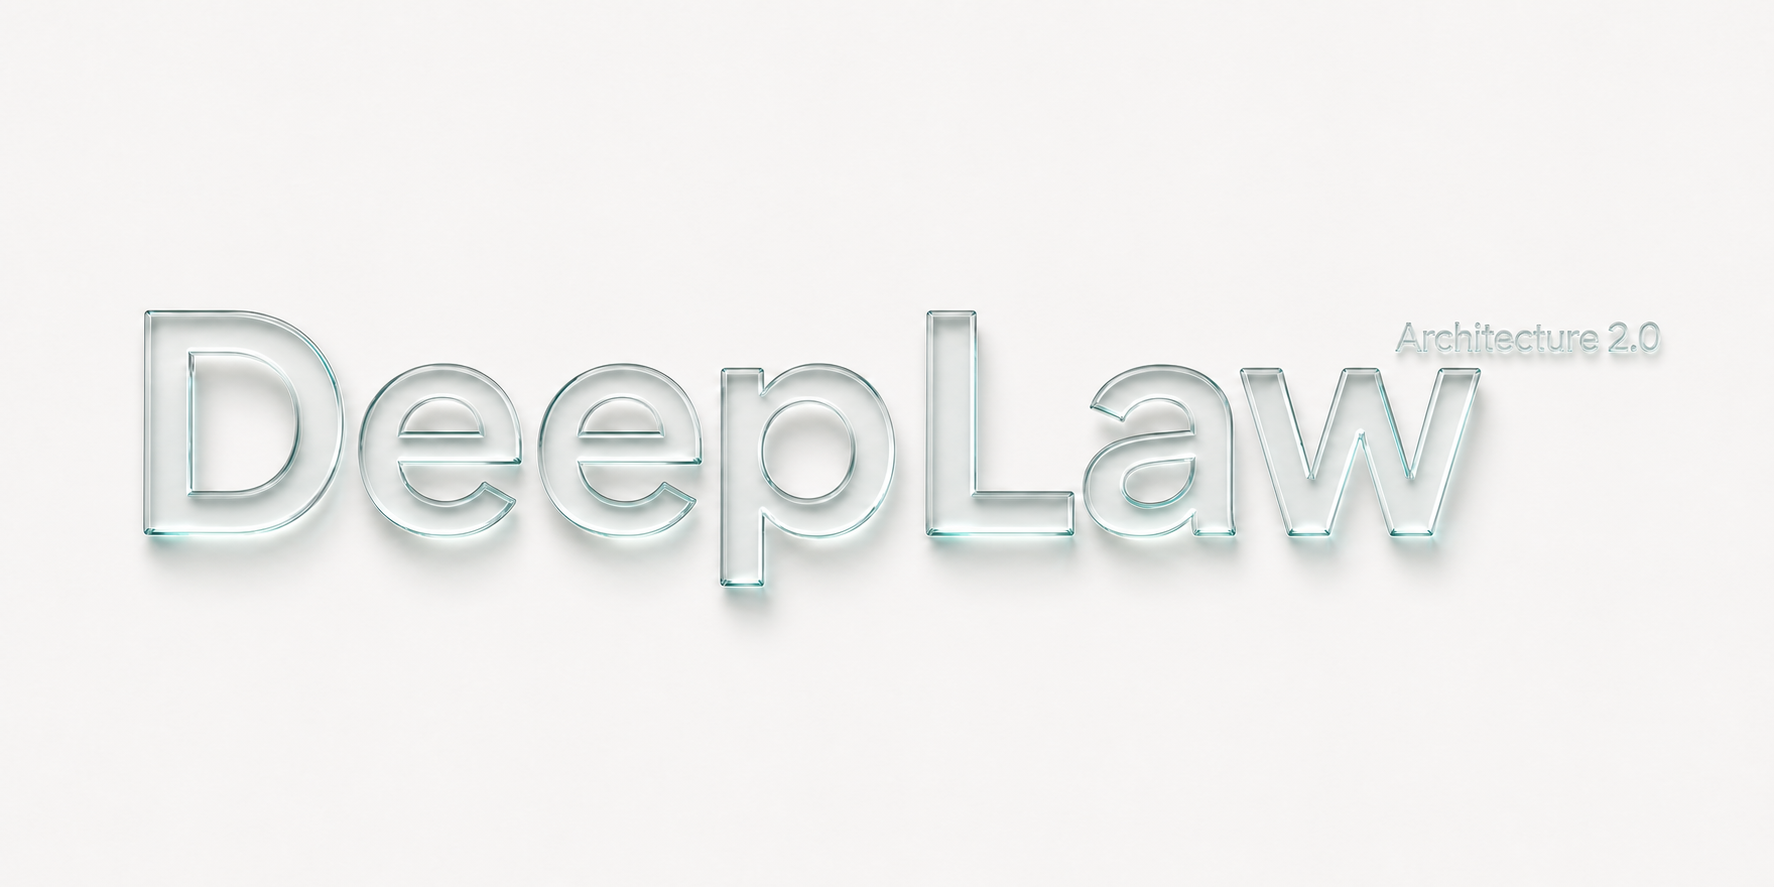
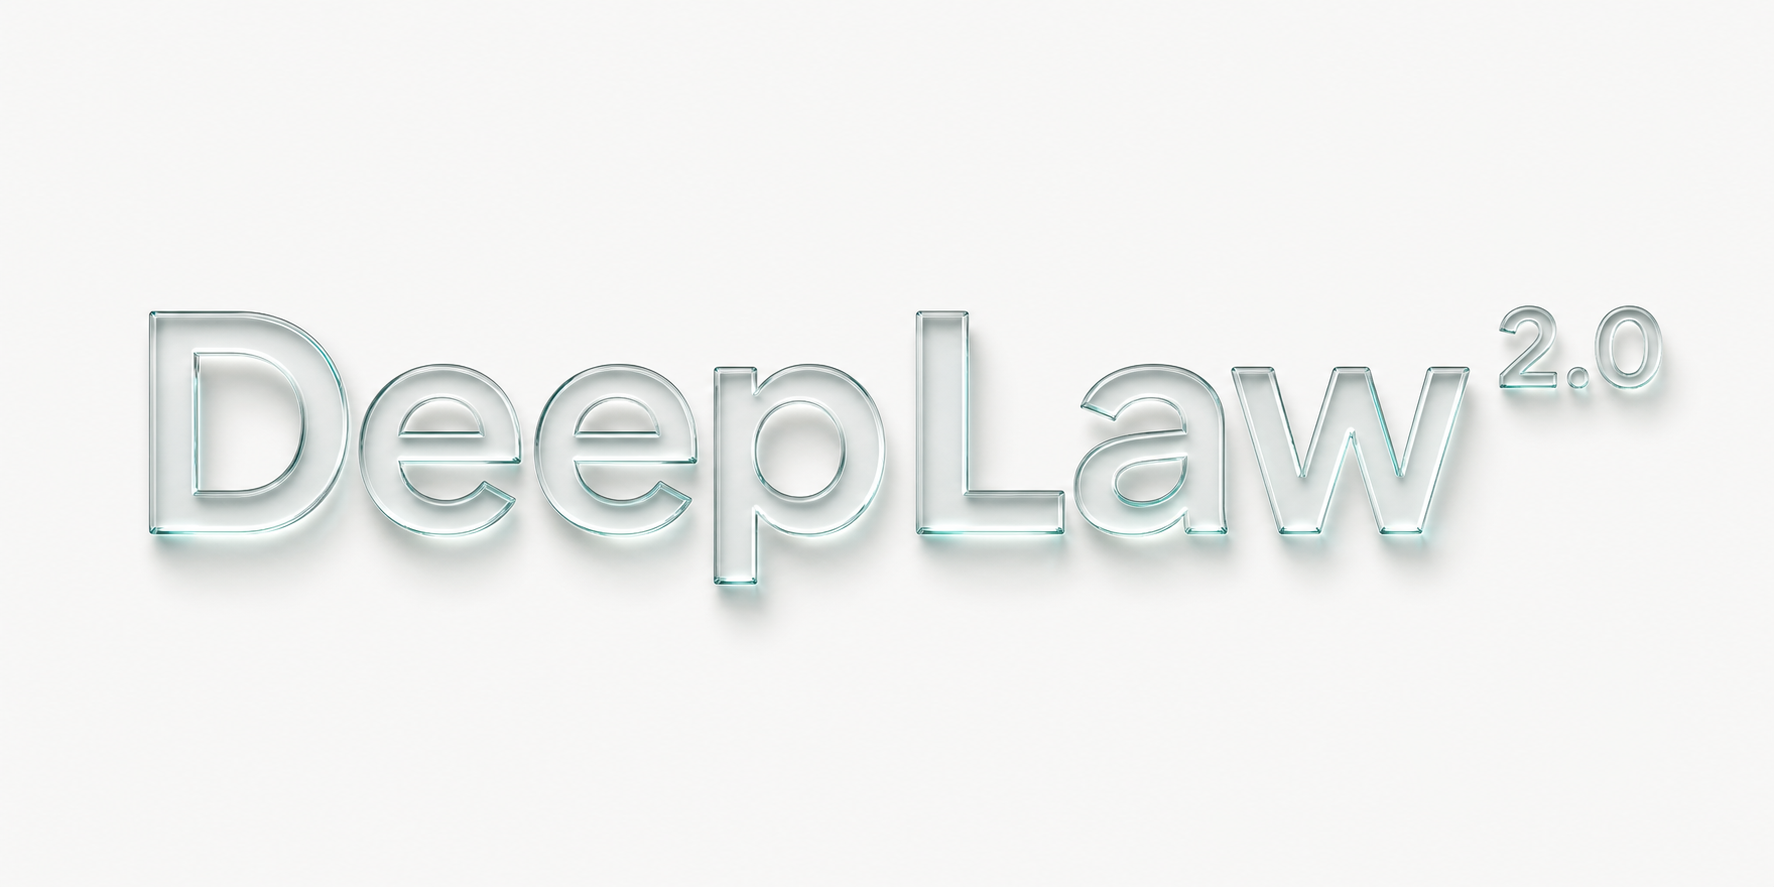
docs(brand): use selected homepage visuals

diff --git a/assets/README.md b/assets/README.md
@@ -11,8 +11,8 @@ of a runtime UI and must not be presented as one.
 
 ## Files
 
-- `brand/deeplaw-2-glass.png`: primary `DeepLaw` frosted-glass wordmark with a
-  secondary `Architecture 2.0` label.
+- `brand/deeplaw-2-glass.png`: primary `DeepLaw 2.0` frosted transparent-glass
+  wordmark.
 - `readme/architecture-2-glass.png`: simple Files → DeepLaw Knowledge Base →
   Locate / Connect / Explain → Evidence Pack → Agent target architecture.
 - `readme/knowledge-cycle.png`: internal Ingest / Organize / Locate / Connect /
@@ -26,6 +26,7 @@ architecture were retired. They are not alternate DeepLaw identities.
 ## Brand rules
 
 - Primary product spelling: `DeepLaw`.
+- Public architecture wordmark: `DeepLaw 2.0`.
 - Target architecture label: `Architecture 2.0`.
 - Current package version remains independent and is currently `0.2.0` alpha.
 - Core colors: deep ink `#071821`, proof mint `#36CDBB`, cloud white `#F4F7F6`,

diff --git a/README.md b/README.md
@@ -5,7 +5,7 @@
 <h1 align="center">DeepLaw</h1>
 
 <p align="center">
-  <img src="assets/brand/deeplaw-2-glass.png" width="820" alt="DeepLaw 磨砂玻璃字标与 Architecture 2.0 次级标签" />
+  <img src="assets/brand/deeplaw-2-glass.png" width="820" alt="DeepLaw 2.0 磨砂透明玻璃字标" />
 </p>
 
 <p align="center">

diff --git a/README_EN.md b/README_EN.md
@@ -5,7 +5,7 @@
 <h1 align="center">DeepLaw</h1>
 
 <p align="center">
-  <img src="assets/brand/deeplaw-2-glass.png" width="820" alt="DeepLaw frosted-glass wordmark with Architecture 2.0 label" />
+  <img src="assets/brand/deeplaw-2-glass.png" width="820" alt="DeepLaw 2.0 frosted transparent-glass wordmark" />
 </p>
 
 <p align="center">